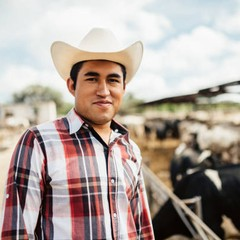
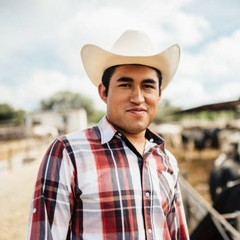
v10: arreglando errores visuales en las tarjetas y modificando la imagen principal

diff --git a/styles.css b/styles.css
@@ -52,26 +52,37 @@ svg{display:block;}
 .float-slow{animation:float 7s ease-in-out infinite; animation-delay:.3s;}
 
 /* ---------- Header ---------- */
-.site-header{position:sticky; top:0; z-index:50; background:rgba(251,244,236,.9); backdrop-filter:blur(8px); transition:box-shadow .3s ease, padding .3s ease;}
-.site-header.scrolled{box-shadow:0 4px 24px rgba(114,42,46,.08);}
+.site-header{
+  position:absolute; top:0; left:0; right:0; z-index:50;
+  background:transparent;
+  transition:box-shadow .3s ease, background .3s ease;
+}
+.site-header.scrolled{
+  position:fixed;
+  background:rgba(251,244,236,.92); backdrop-filter:blur(8px);
+  box-shadow:0 4px 24px rgba(114,42,46,.08);
+}
 .nav{display:flex; align-items:center; justify-content:space-between; padding:18px 48px; gap:24px;}
-.logo{font-weight:700; font-size:18px; color:var(--primary); text-decoration:none; display:flex; align-items:center; gap:10px;}
+.logo{font-weight:700; font-size:18px; color:#fff; text-decoration:none; display:flex; align-items:center; gap:10px; text-shadow:0 1px 6px rgba(0,0,0,.25); transition:color .3s ease;}
+.scrolled .logo{color:var(--primary); text-shadow:none;}
 .logo-mark{width:30px; height:30px; object-fit:contain; border-radius:7px;}
 .navlinks{display:flex; gap:30px; font-weight:500; font-size:14px;}
-.navlinks a{text-decoration:none; position:relative; padding:4px 0;}
-.navlinks a::after{content:""; position:absolute; left:0; bottom:-2px; width:0; height:2px; background:var(--primary); transition:width .25s var(--ease);}
+.navlinks a{text-decoration:none; position:relative; padding:4px 0; color:#fff; text-shadow:0 1px 6px rgba(0,0,0,.25); transition:color .3s ease;}
+.scrolled .navlinks a{color:var(--dark); text-shadow:none;}
+.navlinks a::after{content:""; position:absolute; left:0; bottom:-2px; width:0; height:2px; background:currentColor; transition:width .25s var(--ease);}
 .navlinks a:hover::after{width:100%;}
-.navlinks a:hover{color:var(--primary);}
+.navlinks a:hover{opacity:.8;}
 .nav-cta{margin-left:auto;}
 .menu-toggle{display:none; flex-direction:column; justify-content:center; gap:4px; width:32px; height:32px; background:none; border:none; cursor:pointer; padding:0;}
-.menu-toggle span{display:block; width:20px; height:2px; background:var(--dark); border-radius:1px; transition:transform .2s ease, opacity .2s ease;}
+.menu-toggle span{display:block; width:20px; height:2px; background:#fff; border-radius:1px; transition:transform .2s ease, opacity .2s ease, background .3s ease;}
+.scrolled .menu-toggle span{background:var(--dark);}
 
 /* ---------- Hero ---------- */
 .hero{
-  padding:64px 0 120px;
-  background-image:linear-gradient(180deg, rgba(251,244,236,.35) 0%, rgba(251,244,236,.55) 55%, var(--cream) 100%), url('assets/hato-paisaje.jpg');
+  padding:130px 0 120px;
+  background-image:url('assets/hato-paisaje.jpg');
   background-size:cover;
-  background-position:center 70%;
+  background-position:center 65%;
   background-repeat:no-repeat;
 }
 .hero-card{
@@ -158,15 +169,41 @@ svg{display:block;}
 .stat-num{display:block; font-size:48px; font-weight:900; letter-spacing:-.5px; margin-bottom:6px;}
 .stat span{font-size:12px; opacity:.88; line-height:1.4; display:block;}
 
-/* ---------- Comparison (antes / con Gethics) ---------- */
-.compare-row{display:flex; gap:24px; margin-top:40px;}
-.compare-card{flex:1; border-radius:22px; padding:30px;}
+/* ---------- Comparison (antes / con Gethics) — tarjetas 3D ---------- */
+.compare-row{display:flex; gap:36px; margin-top:48px; perspective:1400px;}
+.compare-card{
+  flex:1; position:relative; border-radius:24px; padding:34px 32px;
+  box-shadow:0 10px 20px rgba(30,20,10,.08), 0 24px 48px rgba(30,20,10,.12);
+  transform-style:preserve-3d; transition:transform .4s var(--ease), box-shadow .4s var(--ease);
+}
+.compare-card::before, .compare-card::after{content:""; position:absolute; inset:0; border-radius:24px; z-index:-1;}
+.compare-card::before{transform:translate(10px,12px) rotate(1.4deg); opacity:.6;}
+.compare-card::after{transform:translate(20px,22px) rotate(2.6deg); opacity:.32;}
 .compare-before{background:#fbeeea;}
+.compare-before::before, .compare-before::after{background:#fbeeea;}
 .compare-after{background:var(--surface);}
-.compare-list{list-style:none; display:flex; flex-direction:column; gap:12px; margin-top:16px;}
-.compare-list li{font-size:13.5px; display:flex; align-items:flex-start; gap:10px; line-height:1.4;}
-.x-ico{color:#b3433a; font-weight:700;}
-.check-ico{color:#2c6e45; font-weight:700;}
+.compare-after::before, .compare-after::after{background:var(--surface);}
+.compare-card:hover{transform:translateY(-10px) rotateX(3deg) rotateY(-3deg); box-shadow:0 20px 30px rgba(30,20,10,.1), 0 34px 60px rgba(30,20,10,.18);}
+.compare-top{display:flex; align-items:center; gap:14px;}
+.compare-badge{
+  width:46px; height:46px; border-radius:50%; flex:none;
+  display:flex; align-items:center; justify-content:center; box-shadow:0 8px 16px rgba(0,0,0,.14);
+}
+.compare-badge svg{width:22px; height:22px;}
+.compare-badge-x{background:#f6d9d0; color:#b3433a;}
+.compare-badge-check{background:#cde7d1; color:#2c6e45;}
+.compare-list{list-style:none; display:flex; flex-direction:column; gap:12px; margin-top:22px;}
+.compare-list li{
+  font-size:14px; display:flex; align-items:center; gap:12px; line-height:1.4;
+  background:rgba(255,255,255,.6); border-radius:14px; padding:11px 14px;
+}
+.x-ico, .check-ico{
+  width:24px; height:24px; border-radius:50%; flex:none; background:var(--white);
+  display:flex; align-items:center; justify-content:center; box-shadow:0 2px 6px rgba(0,0,0,.1);
+}
+.x-ico{color:#b3433a;}
+.check-ico{color:#2c6e45;}
+.x-ico svg, .check-ico svg{width:13px; height:13px;}
 
 /* ---------- Testimonial avatar ---------- */
 .testi-avatar{
@@ -303,11 +340,11 @@ footer{padding:56px 0 40px; background:var(--white);}
     transform:translateY(-12px); opacity:0; pointer-events:none; transition:all .18s ease;
   }
   .navlinks.open{transform:translateY(0); opacity:1; pointer-events:auto;}
-  .navlinks a{padding:12px 0; width:100%; border-bottom:1px solid #f1f1f1;}
+  .navlinks a{padding:12px 0; width:100%; border-bottom:1px solid #f1f1f1; color:var(--dark); text-shadow:none;}
   .nav-cta{display:none;}
   .menu-toggle{display:flex;}
 
-  .hero{padding:28px 0 64px; background-position:center 75%;}
+  .hero{padding:96px 0 64px; background-position:center 78%;}
   .hero-card{flex-direction:column; padding:32px 24px; border-radius:28px; gap:24px;}
   .hero-text h1{font-size:32px; letter-spacing:-.3px;}
   .hero-text p{font-size:14px; max-width:none;}
@@ -326,7 +363,9 @@ footer{padding:56px 0 40px; background:var(--white);}
   .grid{grid-template-columns:1fr; gap:14px;}
   .avatar-photo{width:60px; height:60px;}
   .how-row, .testi-row{flex-direction:column; gap:14px;}
-  .compare-row{gap:14px;}
+  .compare-row{gap:28px;}
+  .compare-card::before{transform:translate(5px,6px) rotate(.8deg);}
+  .compare-card::after{transform:translate(10px,12px) rotate(1.6deg);}
   .stats-row{flex-direction:column; gap:28px;}
   .showcase-row{gap:32px;}
   .cta-section{padding:0 0 56px;}

diff --git a/index.html b/index.html
@@ -237,25 +237,33 @@
           <cite>Técnico agropecuario</cite>
         </blockquote>
       </div>
-      <p class="research-note reveal">Entrevistas exploratorias con ganaderos y veterinarios de Junín: el 100% reportó depender de cuadernos o notas sueltas, y problemas de doble digitación al pasar esa información a otro sistema. Las fotos son ilustrativas (no son los entrevistados); por eso cada cita va atribuida por rol, no por nombre — son apreciaciones generales de las entrevistas exploratorias, no citas de validación todavía.</p>
-
       <div class="compare-row">
         <div class="compare-card compare-before reveal">
-          <span class="kicker" style="color:#9a5b3a">Hoy, sin Gethics</span>
+          <div class="compare-top">
+            <span class="compare-badge compare-badge-x" aria-hidden="true">
+              <svg viewBox="0 0 24 24" fill="none" stroke="currentColor" stroke-width="2.4" stroke-linecap="round"><path d="M6 6l12 12M18 6L6 18"/></svg>
+            </span>
+            <span class="kicker" style="color:#9a5b3a">Hoy, sin Gethics</span>
+          </div>
           <ul class="compare-list">
-            <li><span class="x-ico">✕</span> Cuaderno o notas sueltas que se mojan o se pierden</li>
-            <li><span class="x-ico">✕</span> Doble digitación al pasar datos a otro sistema</li>
-            <li><span class="x-ico">✕</span> Historial clínico que no está a la mano en campo</li>
-            <li><span class="x-ico">✕</span> Vacunas que se pasan por falta de recordatorio</li>
+            <li><span class="x-ico" aria-hidden="true"><svg viewBox="0 0 24 24" fill="none" stroke="currentColor" stroke-width="2.4" stroke-linecap="round"><path d="M6 6l12 12M18 6L6 18"/></svg></span> Cuaderno o notas sueltas que se mojan o se pierden</li>
+            <li><span class="x-ico" aria-hidden="true"><svg viewBox="0 0 24 24" fill="none" stroke="currentColor" stroke-width="2.4" stroke-linecap="round"><path d="M6 6l12 12M18 6L6 18"/></svg></span> Doble digitación al pasar datos a otro sistema</li>
+            <li><span class="x-ico" aria-hidden="true"><svg viewBox="0 0 24 24" fill="none" stroke="currentColor" stroke-width="2.4" stroke-linecap="round"><path d="M6 6l12 12M18 6L6 18"/></svg></span> Historial clínico que no está a la mano en campo</li>
+            <li><span class="x-ico" aria-hidden="true"><svg viewBox="0 0 24 24" fill="none" stroke="currentColor" stroke-width="2.4" stroke-linecap="round"><path d="M6 6l12 12M18 6L6 18"/></svg></span> Vacunas que se pasan por falta de recordatorio</li>
           </ul>
         </div>
         <div class="compare-card compare-after reveal">
-          <span class="kicker">Con Gethics</span>
+          <div class="compare-top">
+            <span class="compare-badge compare-badge-check" aria-hidden="true">
+              <svg viewBox="0 0 24 24" fill="none" stroke="currentColor" stroke-width="2.6" stroke-linecap="round" stroke-linejoin="round"><path d="M5 13l4 4L19 7"/></svg>
+            </span>
+            <span class="kicker">Con Gethics</span>
+          </div>
           <ul class="compare-list">
-            <li><span class="check-ico">✓</span> Registro digital por animal, disponible sin conexión</li>
-            <li><span class="check-ico">✓</span> Un solo lugar — nada que volver a digitar</li>
-            <li><span class="check-ico">✓</span> Historial clínico a la mano desde el celular</li>
-            <li><span class="check-ico">✓</span> Alertas automáticas de calendario sanitario</li>
+            <li><span class="check-ico" aria-hidden="true"><svg viewBox="0 0 24 24" fill="none" stroke="currentColor" stroke-width="2.6" stroke-linecap="round" stroke-linejoin="round"><path d="M5 13l4 4L19 7"/></svg></span> Registro digital por animal, disponible sin conexión</li>
+            <li><span class="check-ico" aria-hidden="true"><svg viewBox="0 0 24 24" fill="none" stroke="currentColor" stroke-width="2.6" stroke-linecap="round" stroke-linejoin="round"><path d="M5 13l4 4L19 7"/></svg></span> Un solo lugar — nada que volver a digitar</li>
+            <li><span class="check-ico" aria-hidden="true"><svg viewBox="0 0 24 24" fill="none" stroke="currentColor" stroke-width="2.6" stroke-linecap="round" stroke-linejoin="round"><path d="M5 13l4 4L19 7"/></svg></span> Historial clínico a la mano desde el celular</li>
+            <li><span class="check-ico" aria-hidden="true"><svg viewBox="0 0 24 24" fill="none" stroke="currentColor" stroke-width="2.6" stroke-linecap="round" stroke-linejoin="round"><path d="M5 13l4 4L19 7"/></svg></span> Alertas automáticas de calendario sanitario</li>
           </ul>
         </div>
       </div>
